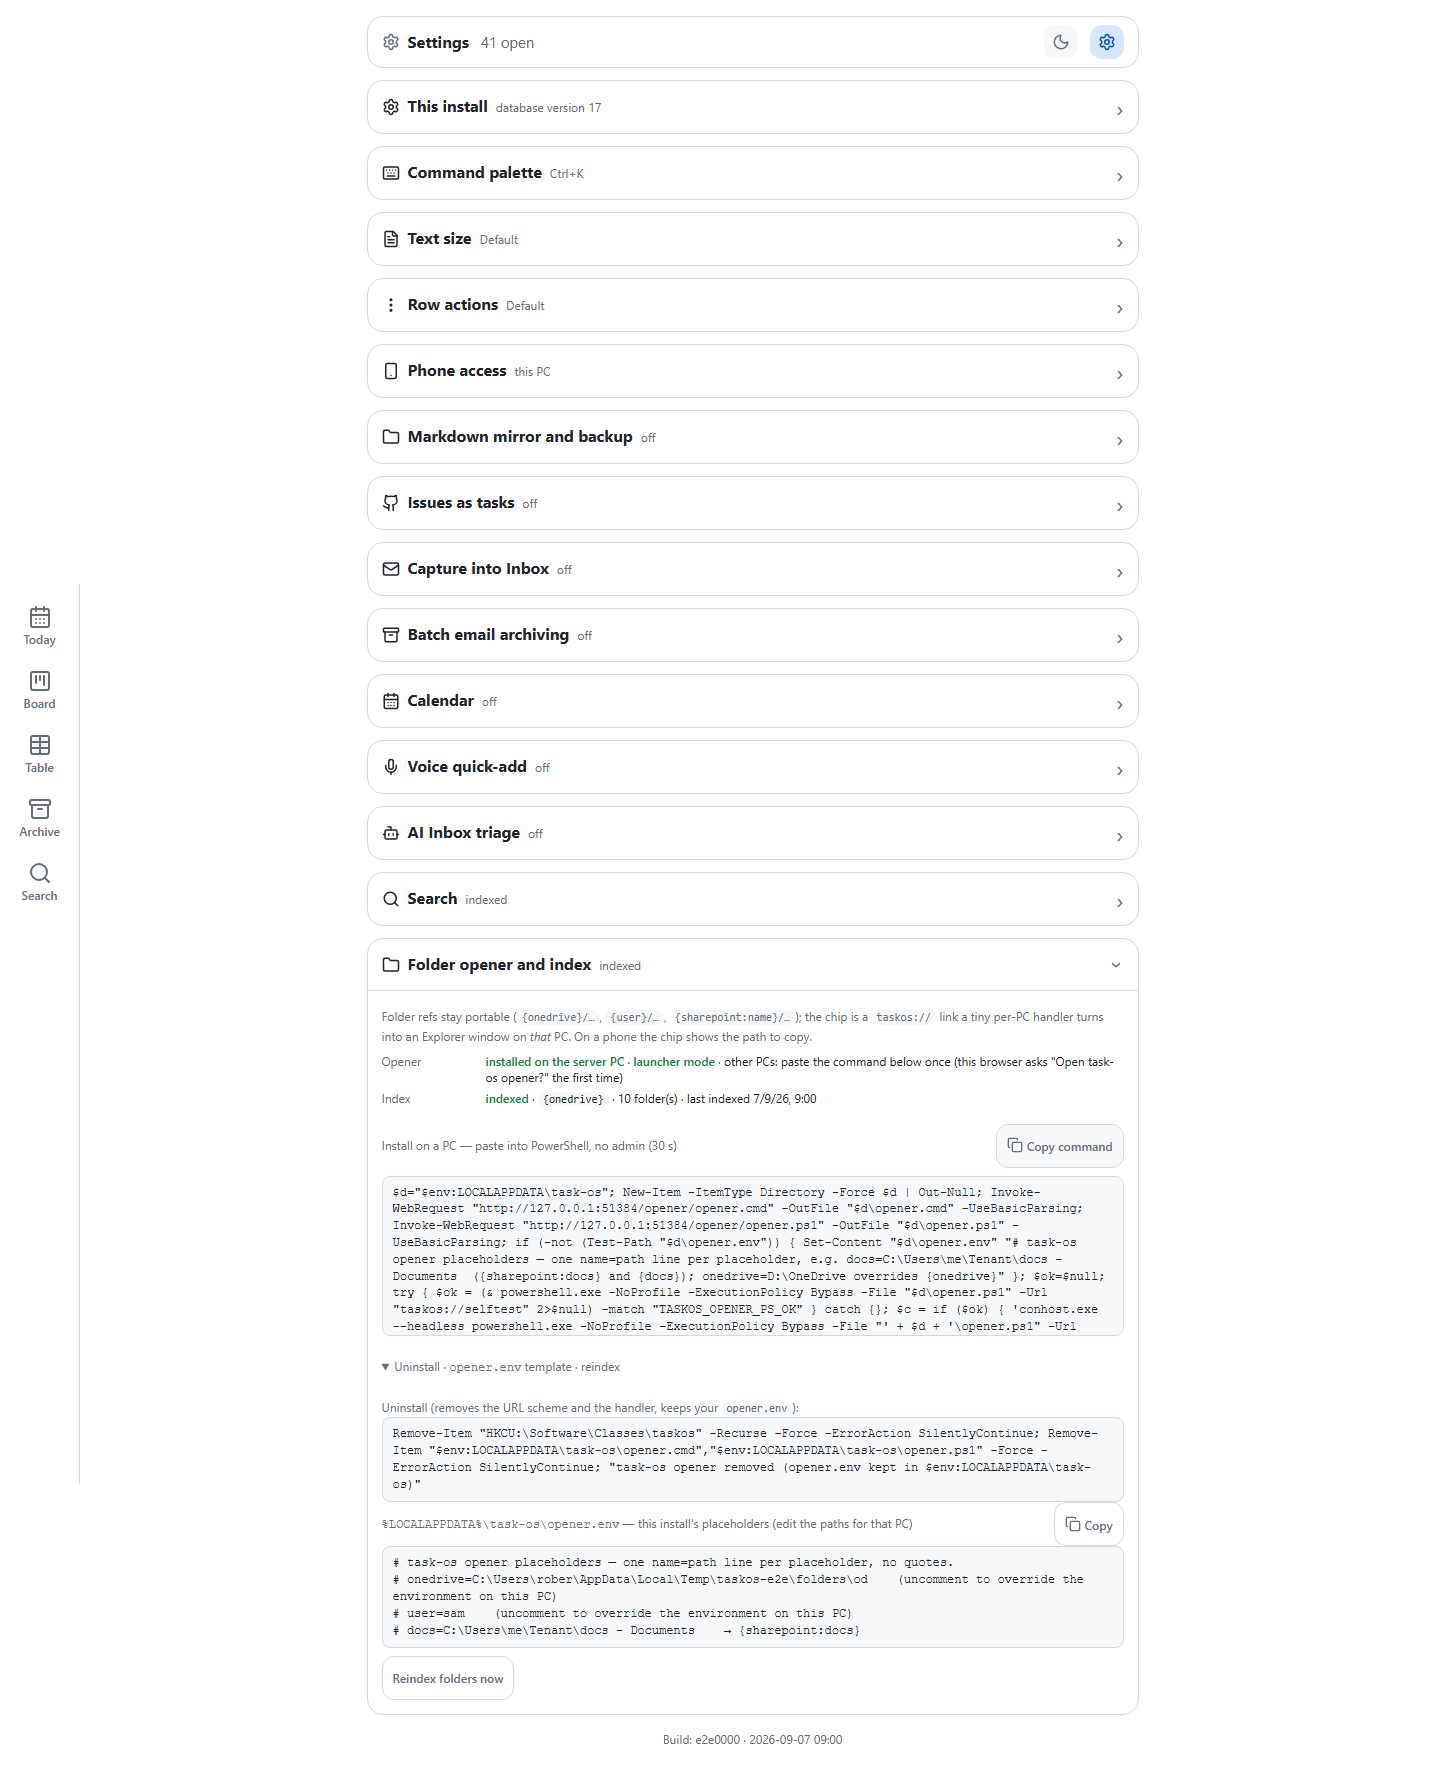
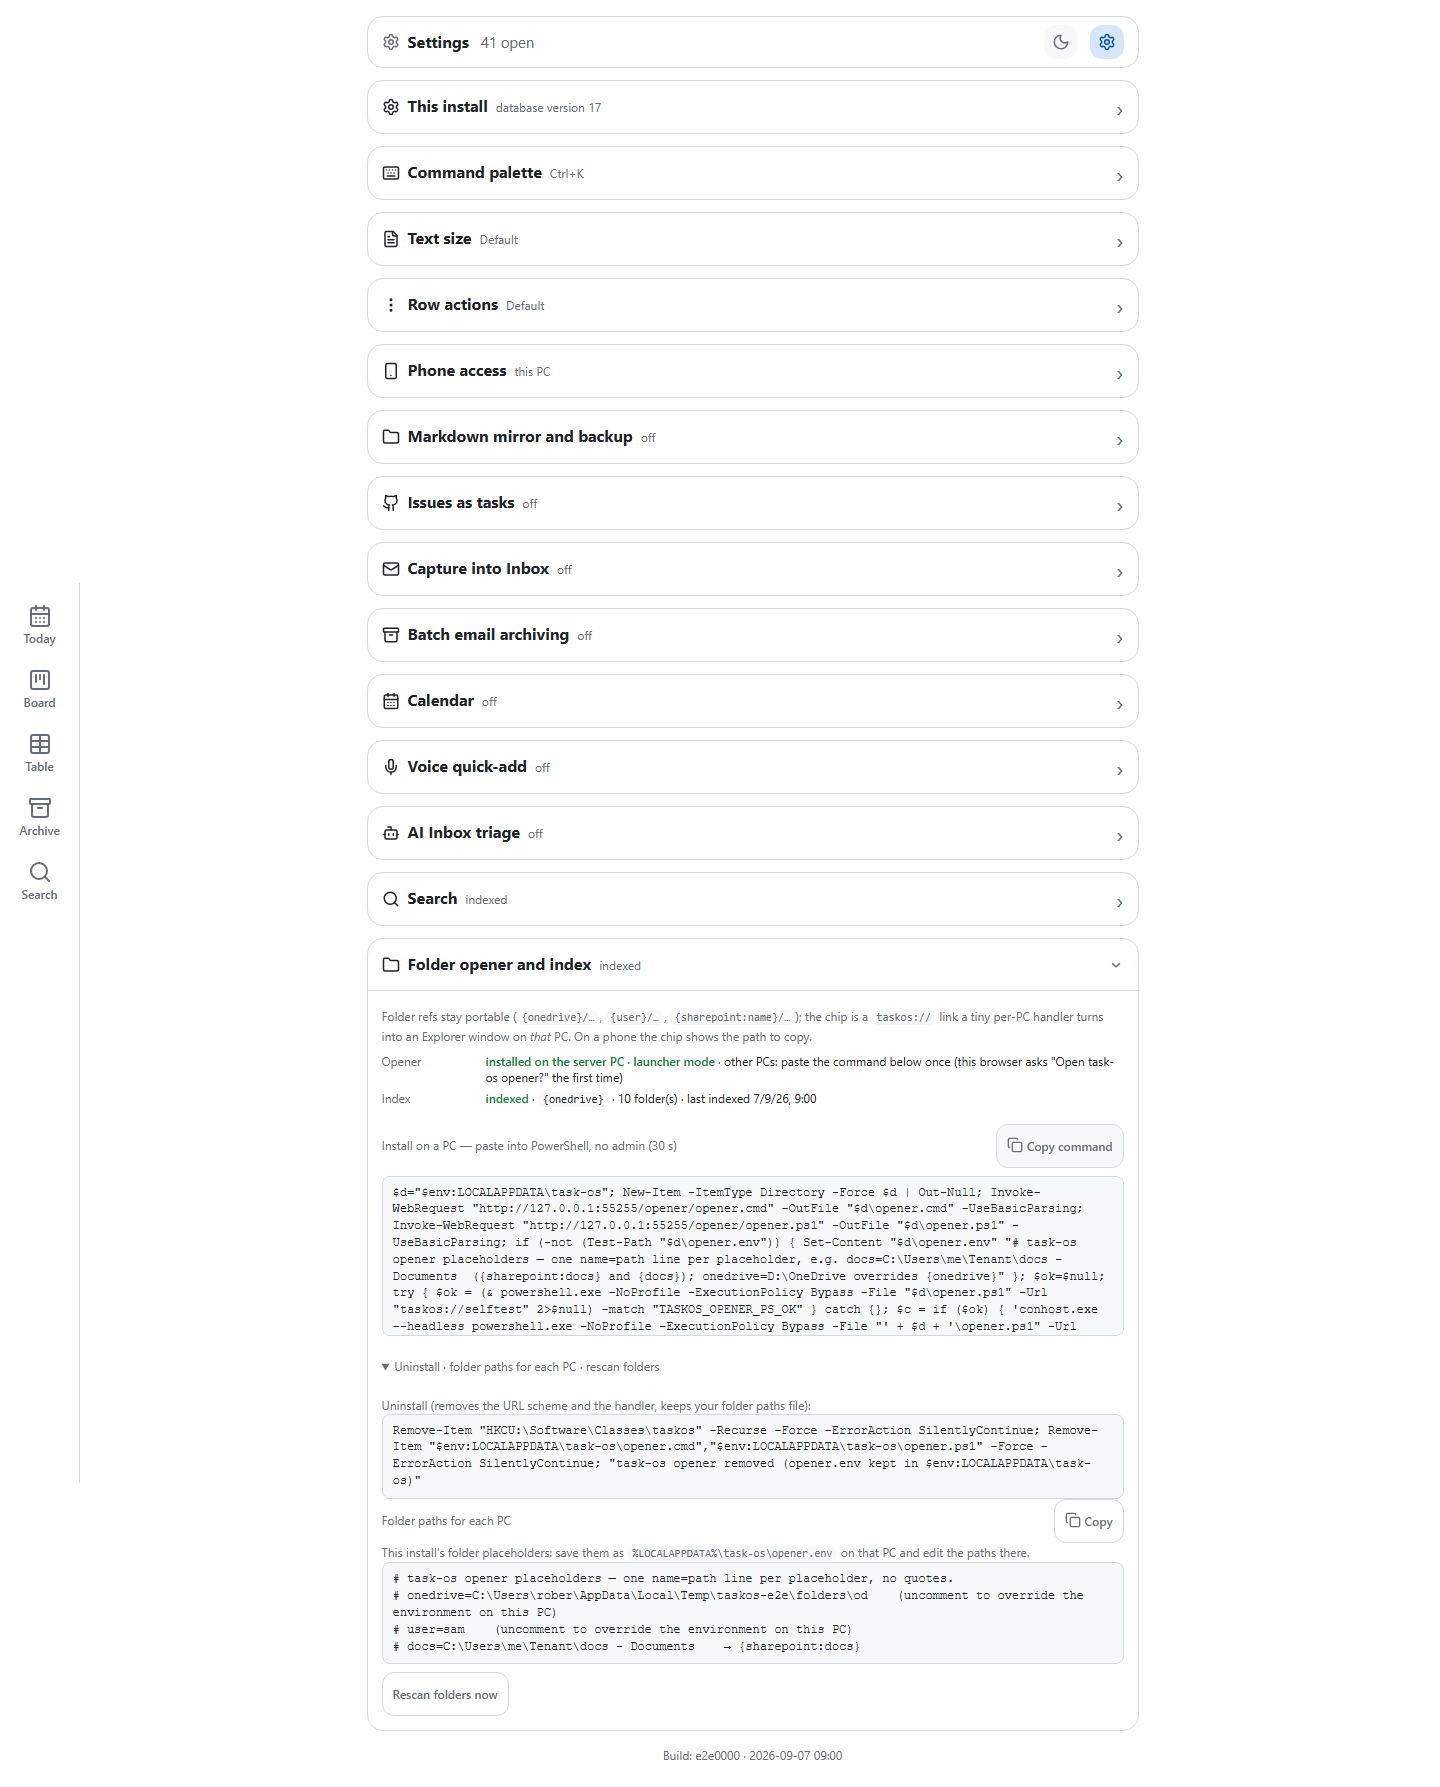
fix: name the folder opener's extras in plain words (#339) (#349)
- the Settings disclosure read "Uninstall · opener.env template ·
  reindex": it now reads "Uninstall · folder paths for each PC ·
  rescan folders" (live J-07: a file name in a label)
- the block heading is "Folder paths for each PC"; where to save the
  file is the sentence under it, not the heading
- "Reindex folders" is "Rescan folders" on the button and in the
  palette, whose hint no longer names a config key
- story 09 reads the summary (red before: the opener.env wording)

Claude-Session: https://claude.ai/code/session_0172Apg4F9VSBxsAwLVqm2RB

Changed region(s): [[0.25, 0.2797, 0.7812, 0.9633], [0.25, 0.0311, 0.4688, 0.2486], [0.0, 0.3418, 0.0312, 0.5282]]

diff --git a/app/webapp/static/index.html b/app/webapp/static/index.html
@@ -899,18 +899,21 @@
             </div>
             <pre class="opener-cmd" id="openerInstall">Loading…</pre>
             <details class="opener-more">
-              <summary>Uninstall · <code>opener.env</code> template · reindex</summary>
-              <p class="card-meta">Uninstall (removes the URL scheme and the handler, keeps your <code>opener.env</code>):</p>
+              <!-- Labels in plain words (#339); the file's name and place are
+                   the instruction under its heading, not the heading. -->
+              <summary>Uninstall · folder paths for each PC · rescan folders</summary>
+              <p class="card-meta">Uninstall (removes the URL scheme and the handler, keeps your folder paths file):</p>
               <pre class="opener-cmd" id="openerUninstall"></pre>
               <div class="opener-block-head">
-                <span class="opener-block-title"><code>%LOCALAPPDATA%\task-os\opener.env</code> — this install's placeholders (edit the paths for that PC)</span>
+                <span class="opener-block-title">Folder paths for each PC</span>
                 <button type="button" id="openerEnvCopy" class="button-ghost">
                   <svg class="icon" aria-hidden="true" focusable="false"><use href="#i-copy"></use></svg> Copy
                 </button>
               </div>
+              <p class="card-meta">This install's folder placeholders: save them as <code>%LOCALAPPDATA%\task-os\opener.env</code> on that PC and edit the paths there.</p>
               <pre class="opener-cmd" id="openerEnv"></pre>
               <div class="access-actions">
-                <button type="button" id="reindexBtn" class="button-ghost" hidden>Reindex folders now</button>
+                <button type="button" id="reindexBtn" class="button-ghost" hidden>Rescan folders now</button>
               </div>
             </details>
           </div>

diff --git a/app/webapp/static/app.js b/app/webapp/static/app.js
@@ -1253,7 +1253,7 @@ function paletteCommands() {
     onFilterChange(Object.assign({}, DEFAULT_FILTERS));
   } });
   cmds.push({ id: 'sync-issues', label: 'Sync issues', hint: state.issues && state.issues.enabled ? 'one pass now (' + state.issues.provider + ')' : 'issue provider not configured', icon: 'refresh-cw', run: function () { return syncIssues(); } });
-  cmds.push({ id: 'reindex-folders', label: 'Reindex folders', hint: 'rescan search.folder_roots', icon: 'folder', run: async function () {
+  cmds.push({ id: 'reindex-folders', label: 'Rescan folders', hint: 'refresh the folder index now', icon: 'folder', run: async function () {
     try { const r = await api('/api/folders/reindex', { method: 'POST', body: {} }); toast('Folder index: ' + r.entries + ' folder(s) in ' + r.seconds + ' s', 'success'); settings.refreshStatus(); }
     catch (err) { toast(err.message || 'Reindex failed', 'error'); }
   } });

diff --git a/tests/e2e/test_story_09_folders.py b/tests/e2e/test_story_09_folders.py
@@ -163,6 +163,8 @@ def test_open_a_folder(folder_webapp: FolderInstance, browser: Browser, shots: P
     expect(cmd).to_contain_text(base + "/opener/opener.cmd")
     expect(cmd).to_contain_text("HKCU:\\Software\\Classes\\taskos")
     expect(card.locator("#statusIndex")).to_contain_text("folder(s)")
+    # the disclosure says what it holds in words, no file name (#339)
+    expect(card.locator("details.opener-more summary")).to_have_text("Uninstall · folder paths for each PC · rescan folders")
     card.locator("details.opener-more summary").click()
     expect(card.locator("#openerEnv")).to_contain_text("onedrive=")
     shot(page, shots / "story-09-folders-3-desktop.png", full_page=True)
